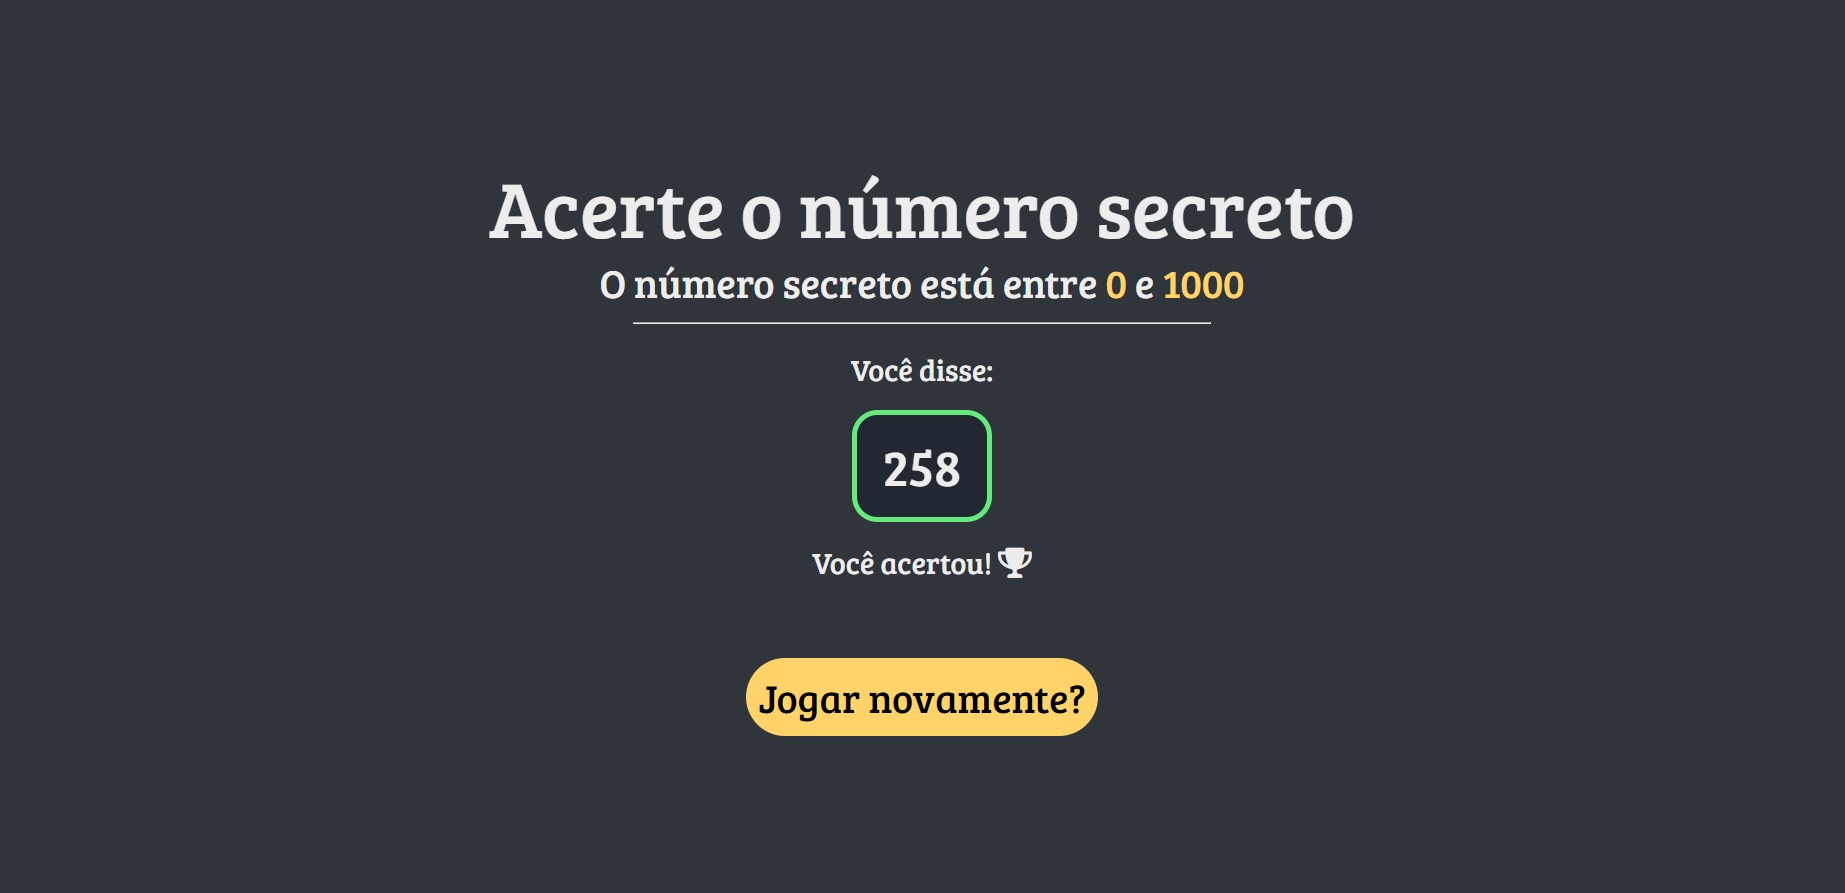
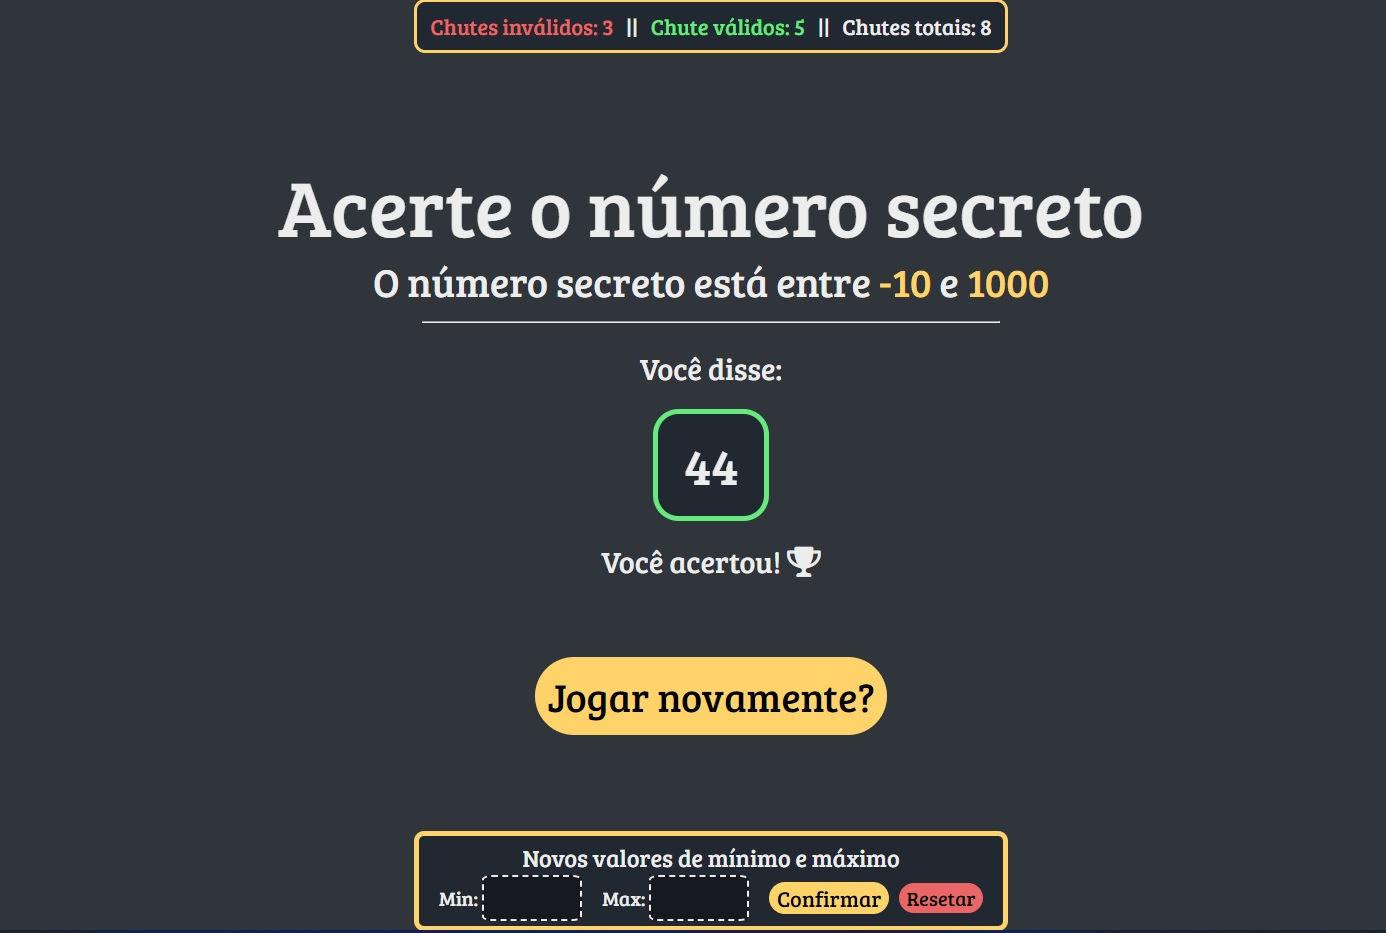
fixed a bug with negative number recognition and changed the README image

diff --git a/src/dist/bundled.js b/src/dist/bundled.js
@@ -76,7 +76,7 @@ eval("__webpack_require__.r(__webpack_exports__);\n/* harmony import */ var _loc
   \**********************************/
 /***/ ((__unused_webpack_module, __webpack_exports__, __webpack_require__) => {
 
-eval("__webpack_require__.r(__webpack_exports__);\n/* harmony export */ __webpack_require__.d(__webpack_exports__, {\n/* harmony export */   \"default\": () => (/* binding */ runWebSpeech)\n/* harmony export */ });\n/* harmony import */ var _analyze_guess_js__WEBPACK_IMPORTED_MODULE_0__ = __webpack_require__(/*! ./analyze_guess.js */ \"./src/js/analyze_guess.js\");\n\r\nvar victory = false;\r\nfunction runWebSpeech() {\r\n    const SpeechRecognition = window.SpeechRecognition || webkitSpeechRecognition;\r\n    const recognition = new SpeechRecognition();\r\n    recognition.lang = \"pt-br\";\r\n    recognition.start();\r\n    recognition.addEventListener(\"result\", (guess) => {\r\n        const guessString = guess.results[0][0].transcript;\r\n        if ((0,_analyze_guess_js__WEBPACK_IMPORTED_MODULE_0__.analyzeGuess)(guessString)) {\r\n            victory = true;\r\n            document.getElementById(\"reload-button\").classList.remove(\"invisible\");\r\n        }\r\n    });\r\n    recognition.addEventListener(\"end\", () => { if (!victory)\r\n        recognition.start(); });\r\n}\r\n\n\n//# sourceURL=webpack:///./src/js/run_web_speech.js?");
+eval("__webpack_require__.r(__webpack_exports__);\n/* harmony export */ __webpack_require__.d(__webpack_exports__, {\n/* harmony export */   \"default\": () => (/* binding */ runWebSpeech)\n/* harmony export */ });\n/* harmony import */ var _analyze_guess_js__WEBPACK_IMPORTED_MODULE_0__ = __webpack_require__(/*! ./analyze_guess.js */ \"./src/js/analyze_guess.js\");\n\r\nvar victory = false;\r\nfunction runWebSpeech() {\r\n    const SpeechRecognition = window.SpeechRecognition || webkitSpeechRecognition;\r\n    const recognition = new SpeechRecognition();\r\n    recognition.lang = \"pt-br\";\r\n    recognition.start();\r\n    recognition.addEventListener(\"result\", (guess) => {\r\n        let guessString = guess.results[0][0].transcript;\r\n        //sometimes web speech understand negative numbers with a whitespace between the - and the number\r\n        if (guessString.startsWith(\"- \"))\r\n            guessString = guessString.replaceAll(\" \", \"\");\r\n        if ((0,_analyze_guess_js__WEBPACK_IMPORTED_MODULE_0__.analyzeGuess)(guessString)) {\r\n            victory = true;\r\n            document.getElementById(\"reload-button\").classList.remove(\"invisible\");\r\n        }\r\n    });\r\n    recognition.addEventListener(\"end\", () => { if (!victory)\r\n        recognition.start(); });\r\n}\r\n\n\n//# sourceURL=webpack:///./src/js/run_web_speech.js?");
 
 /***/ }),
 

diff --git a/src/js/run_web_speech.js b/src/js/run_web_speech.js
@@ -6,7 +6,10 @@ export default function runWebSpeech() {
     recognition.lang = "pt-br";
     recognition.start();
     recognition.addEventListener("result", (guess) => {
-        const guessString = guess.results[0][0].transcript;
+        let guessString = guess.results[0][0].transcript;
+        //sometimes web speech understand negative numbers with a whitespace between the - and the number
+        if (guessString.startsWith("- "))
+            guessString = guessString.replaceAll(" ", "");
         if (analyzeGuess(guessString)) {
             victory = true;
             document.getElementById("reload-button").classList.remove("invisible");

diff --git a/src/ts/run_web_speech.ts b/src/ts/run_web_speech.ts
@@ -10,7 +10,10 @@ export default function runWebSpeech() {
     recognition.start()
 
     recognition.addEventListener("result", (guess) => {
-        const guessString = guess.results[0][0].transcript as string
+        let guessString = guess.results[0][0].transcript as string
+
+        //sometimes web speech understand negative numbers with a whitespace between the - and the number
+        if (guessString.startsWith("- ")) guessString = guessString.replaceAll(" ", "")
 
         if (analyzeGuess(guessString)) {
             victory = true
